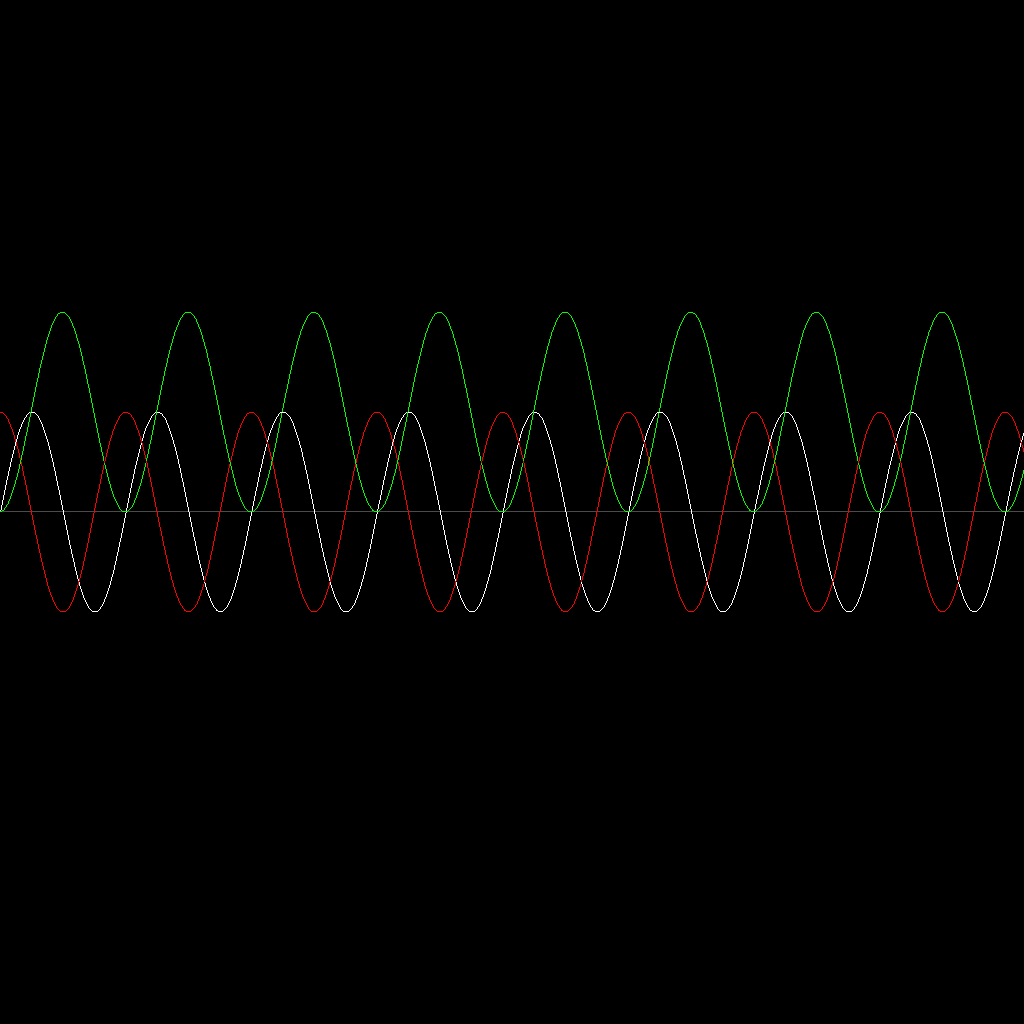
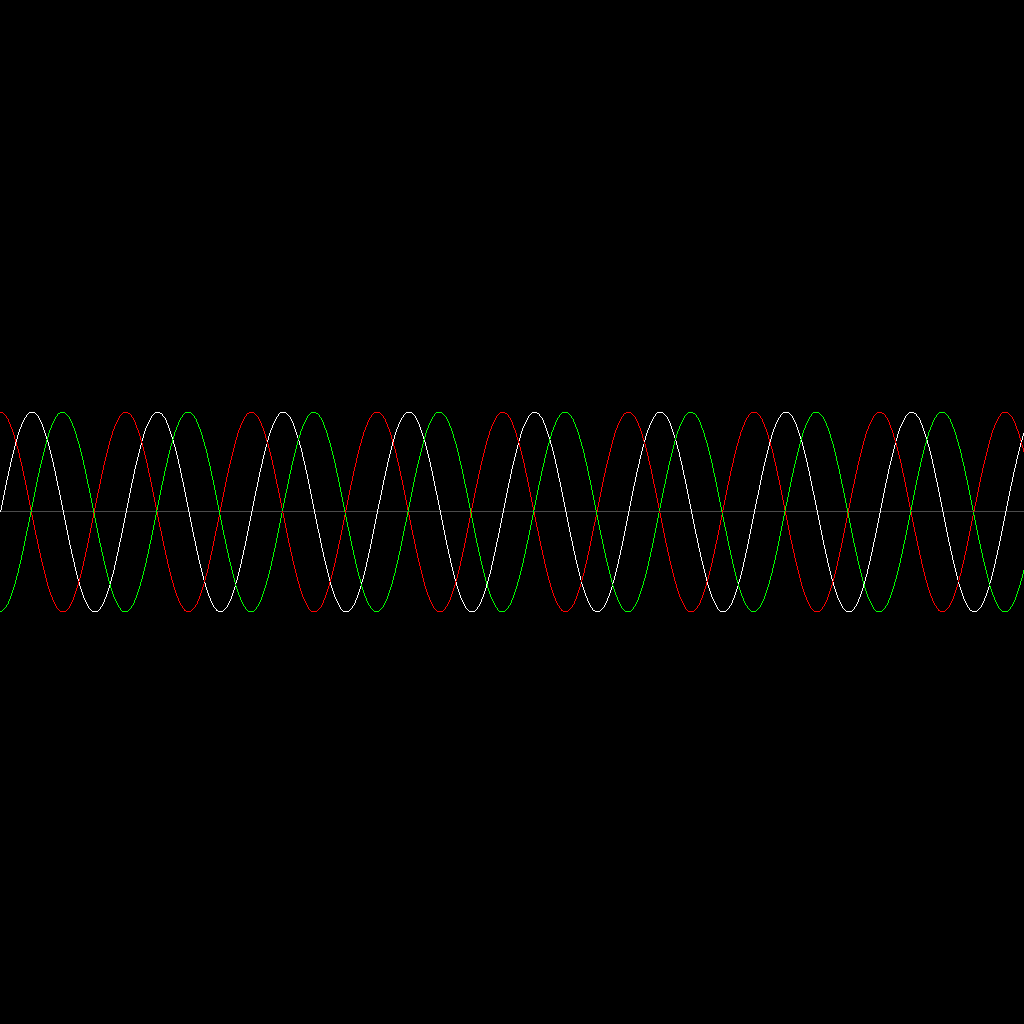
fixed +c constant

diff --git a/Week1_Calc/main.py b/Week1_Calc/main.py
@@ -18,12 +18,11 @@ class AM_Canvas(am.AM_Canvas):
     def draw(self):
         super().draw()
 
-        
-
+    
         dt = 0.05
         offset_y = self.height/2
 
-        total = 0
+        total = -df(0, dt)
 
         self.canvas.line([(0, offset_y), (self.width, offset_y)], fill=(75, 75, 75))
 
